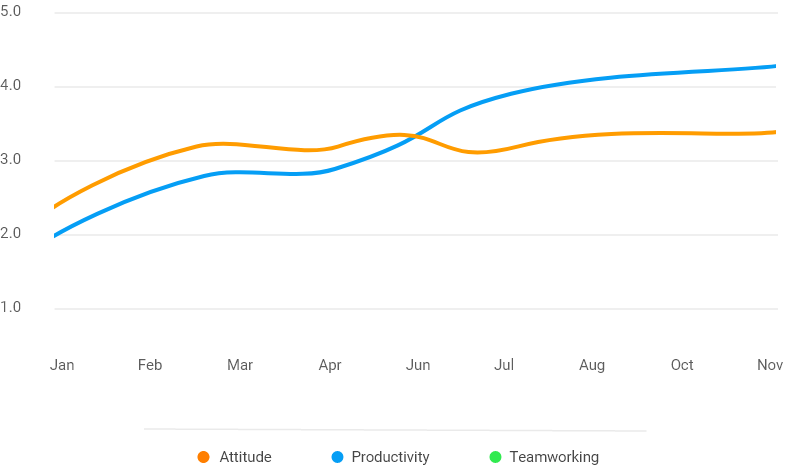
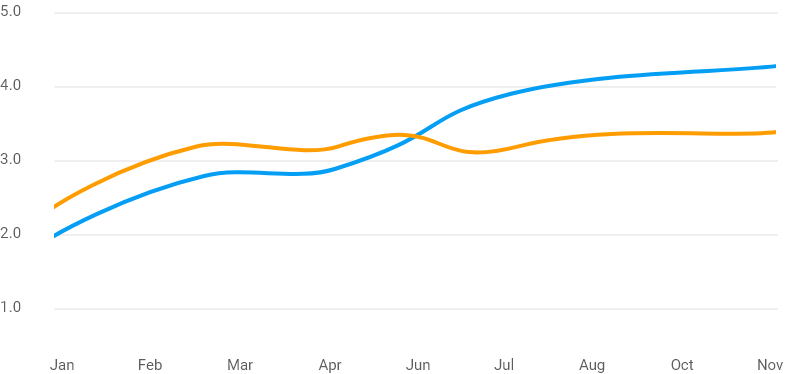
pdf improvements 03

diff --git a/src/components/MyDocument.js b/src/components/MyDocument.js
@@ -90,12 +90,17 @@ const styles = StyleSheet.create({
     alignItems: 'center',
     justifyContent: 'flex-start',
     padding: '7px 9px',
-    fontSize: '7',
-    color: '#44434b',
     width: '475',
     height: '23',
     borderRadius: '1.8',
     backgroundColor: '#f4f6f7',
+
+    text: {
+      fontFamily: 'Roboto',
+      fontWeight: 500,
+      fontSize: '7',
+      color: '#44434b',
+    },
   },
 
   sectionProgress: {
@@ -238,6 +243,7 @@ const styles = StyleSheet.create({
   },
 
   sectionFeedback: {
+    marginLeft: '15pt',
     paddingTop: '26pt',
     paddingBottom: '23pt',
     flexDirection: 'row',
@@ -251,7 +257,7 @@ const styles = StyleSheet.create({
 
       title: {
         marginBottom: '40pt',
-        margin: '0 18pt',
+        margin: '0 17pt',
         fontFamily: 'Roboto',
         fontSize: '8pt',
         fontWeight: 500,
@@ -281,8 +287,59 @@ const styles = StyleSheet.create({
   sectionDevelopment: {
     padding: '38pt',
     paddingBottom: '10pt',
+
     img: {
       width: '100%',
+    },
+
+    legend: {
+      alignSelf: 'center',
+      width: '251pt',
+      paddingTop: '8pt',
+      marginTop: '28pt',
+      flexDirection: 'row',
+      justifyContent: 'center',
+      alignItems: 'center',
+      borderTop: '1pt solid #EAEAEA',
+
+      item: {
+        margin: '0 15pt',
+        flexDirection: 'row',
+        alignItems: 'center',
+        justifyContent: 'center',
+
+        circleRed: {
+          marginRight: '2.5pt',
+          backgroundColor: '#ff7f00',
+          width: '6pt',
+          height: '6pt',
+          borderRadius: 50,
+        },
+
+        circleBlue: {
+          marginRight: '2.5pt',
+          backgroundColor: '#059ef5',
+          width: '6pt',
+          height: '6pt',
+          borderRadius: 50,
+        },
+
+        circleGreen: {
+          marginRight: '2.5pt',
+          backgroundColor: '#30ea4f',
+          width: '6pt',
+          height: '6pt',
+          borderRadius: 50,
+        },
+
+        text: {
+          fontFamily: 'Roboto',
+          fontWeight: 400,
+          fontSize: '7.3pt',
+          letterSpacing: '0.07pt',
+          color: '#464646',
+        },
+      },
     },
   },
 
@@ -347,7 +404,7 @@ const MyDocument = () => (
 
       {/*  SECTION FEEDBACK HEADER  */}
       <View style={styles.sectionHeader}>
-        <Text>Amount of feedback</Text>
+        <Text style={styles.sectionHeader.text}>Amount of feedback</Text>
       </View>
 
       {/*  SECTION FEEDBACK  */}
@@ -375,7 +432,9 @@ const MyDocument = () => (
 
       {/*  SECTION HEADER  */}
       <View style={styles.sectionHeader}>
-        <Text>How Peter is doing at the moment</Text>
+        <Text style={styles.sectionHeader.text}>
+          How Peter is doing at the moment
+        </Text>
       </View>
 
       <View style={styles.sectionProgress}>
@@ -433,7 +492,7 @@ const MyDocument = () => (
 
       {/*  SECTION HEADER  */}
       <View style={styles.sectionHeader}>
-        <Text>Longterm development</Text>
+        <Text style={styles.sectionHeader.text}>Longterm development</Text>
       </View>
 
       {/* SECTION DEVELOPMENT */}
@@ -442,6 +501,34 @@ const MyDocument = () => (
           style={styles.sectionDevelopment.img}
           source={'/graph-placeholder.png'}
         />
+        <View style={styles.sectionDevelopment.legend}>
+          <View style={styles.sectionDevelopment.legend.item}>
+            <View
+              style={styles.sectionDevelopment.legend.item.circleRed}
+            ></View>
+            <Text style={styles.sectionDevelopment.legend.item.text}>
+              Attitude
+            </Text>
+          </View>
+
+          <View style={styles.sectionDevelopment.legend.item}>
+            <View
+              style={styles.sectionDevelopment.legend.item.circleBlue}
+            ></View>
+            <Text style={styles.sectionDevelopment.legend.item.text}>
+              Productivity
+            </Text>
+          </View>
+
+          <View style={styles.sectionDevelopment.legend.item}>
+            <View
+              style={styles.sectionDevelopment.legend.item.circleGreen}
+            ></View>
+            <Text style={styles.sectionDevelopment.legend.item.text}>
+              Teamworking
+            </Text>
+          </View>
+        </View>
       </View>
 
       {/*  FOOTER  */}
@@ -480,7 +567,9 @@ const MyDocument = () => (
       </View>
       {/*  SECTION HEADER  */}
       <View style={styles.sectionHeader}>
-        <Text>Average received feedback by users</Text>
+        <Text style={styles.sectionHeader.text}>
+          Average received feedback by users
+        </Text>
       </View>
 
       <View style={styles.comments}>
